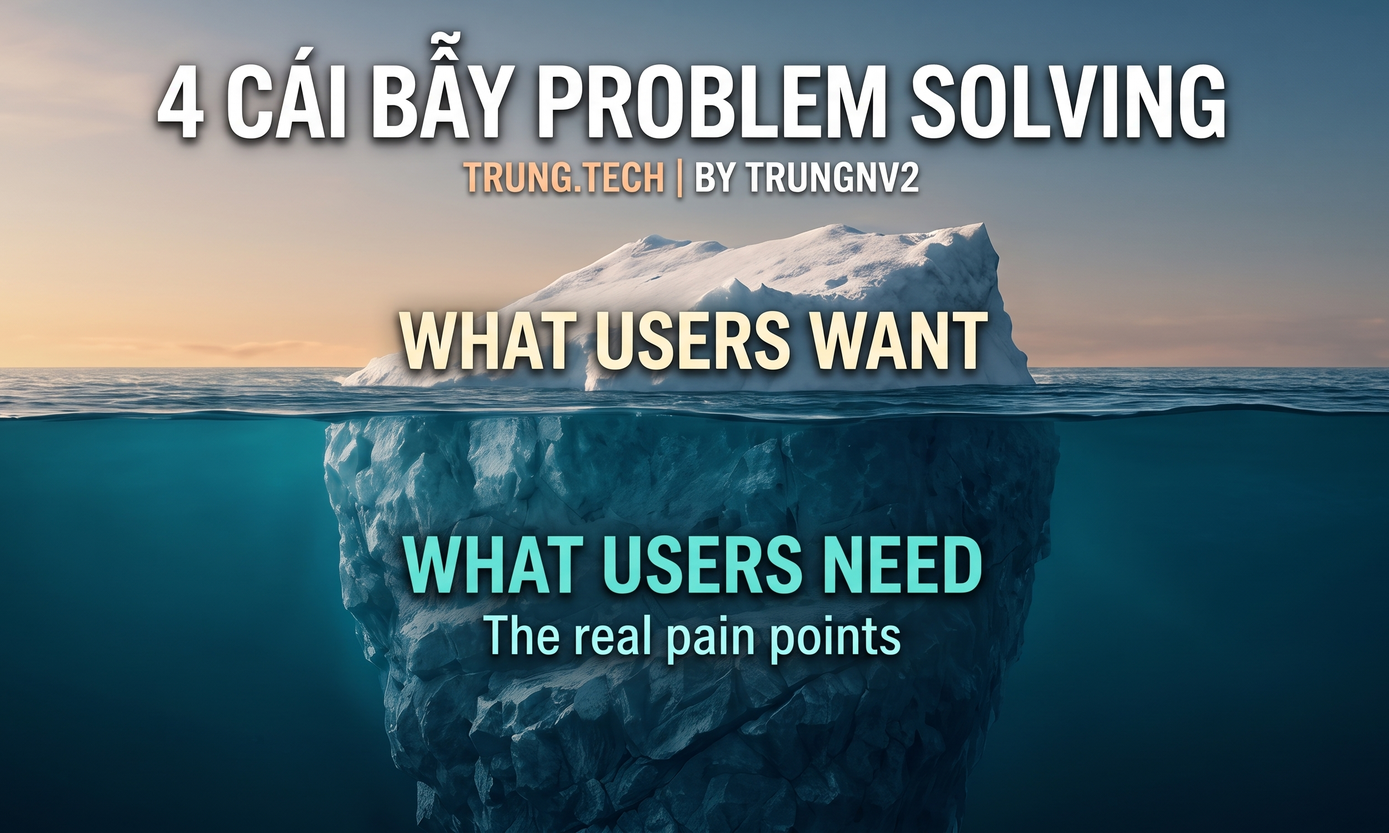
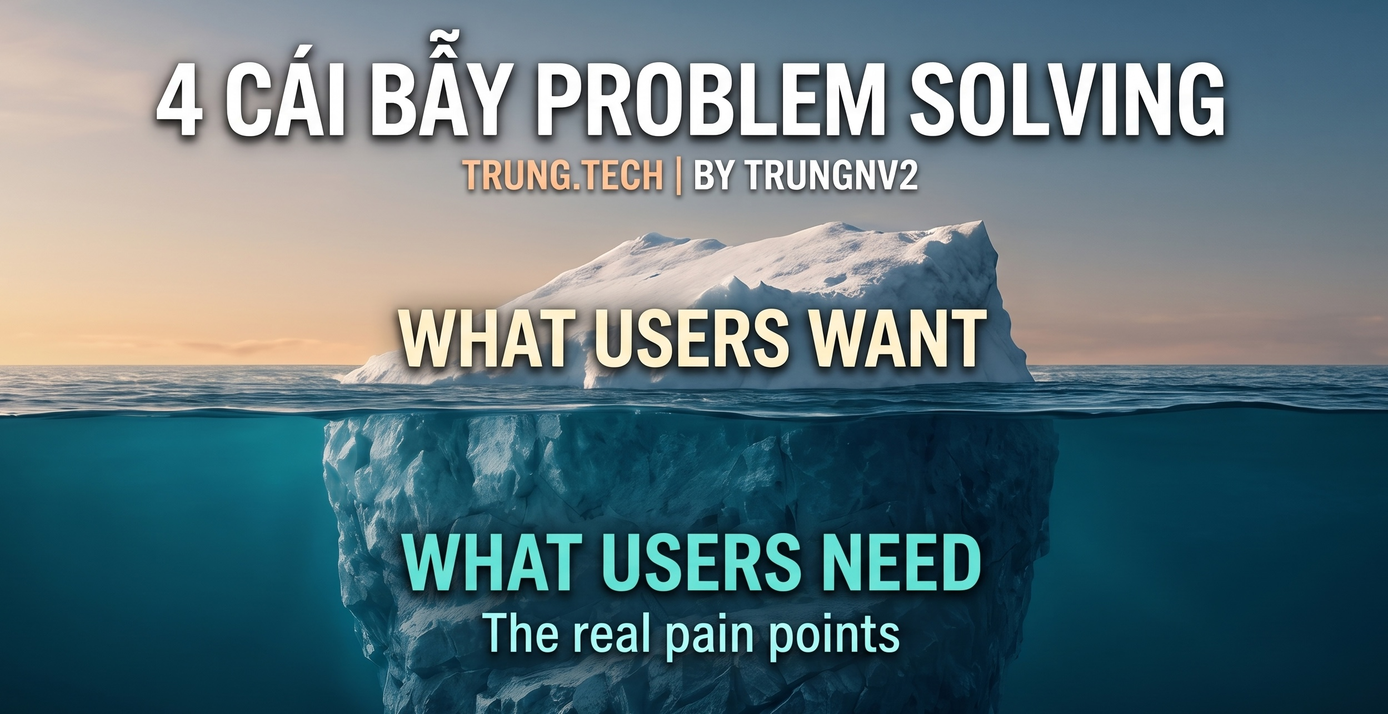
update bài

diff --git a/_posts/2026-10-26-4-cai-bay-problem-solving.md b/_posts/2026-10-26-4-cai-bay-problem-solving.md
@@ -1,8 +1,8 @@
 ---
 title: '4 cái bẫy Problem Solving phổ biến của PM trẻ'
 description: "Đừng nhầm lẫn giữa giải pháp user đòi hỏi và vấn đề họ thực sự gặp phải. Bài viết đúc kết 4 cạm bẫy tư duy từ các case study thực tế khi xây dựng sản phẩm"
-author: Trung Nguyễn
-date: 2026-10-26 21:28:00 +0700
+author: trungnv2
+date: 2026-10-27 21:28:00 +0700
 categories: [Work, Product Management]
 tags: [product-management, problem-solving, product-mindset, zalo]
 comments: true
